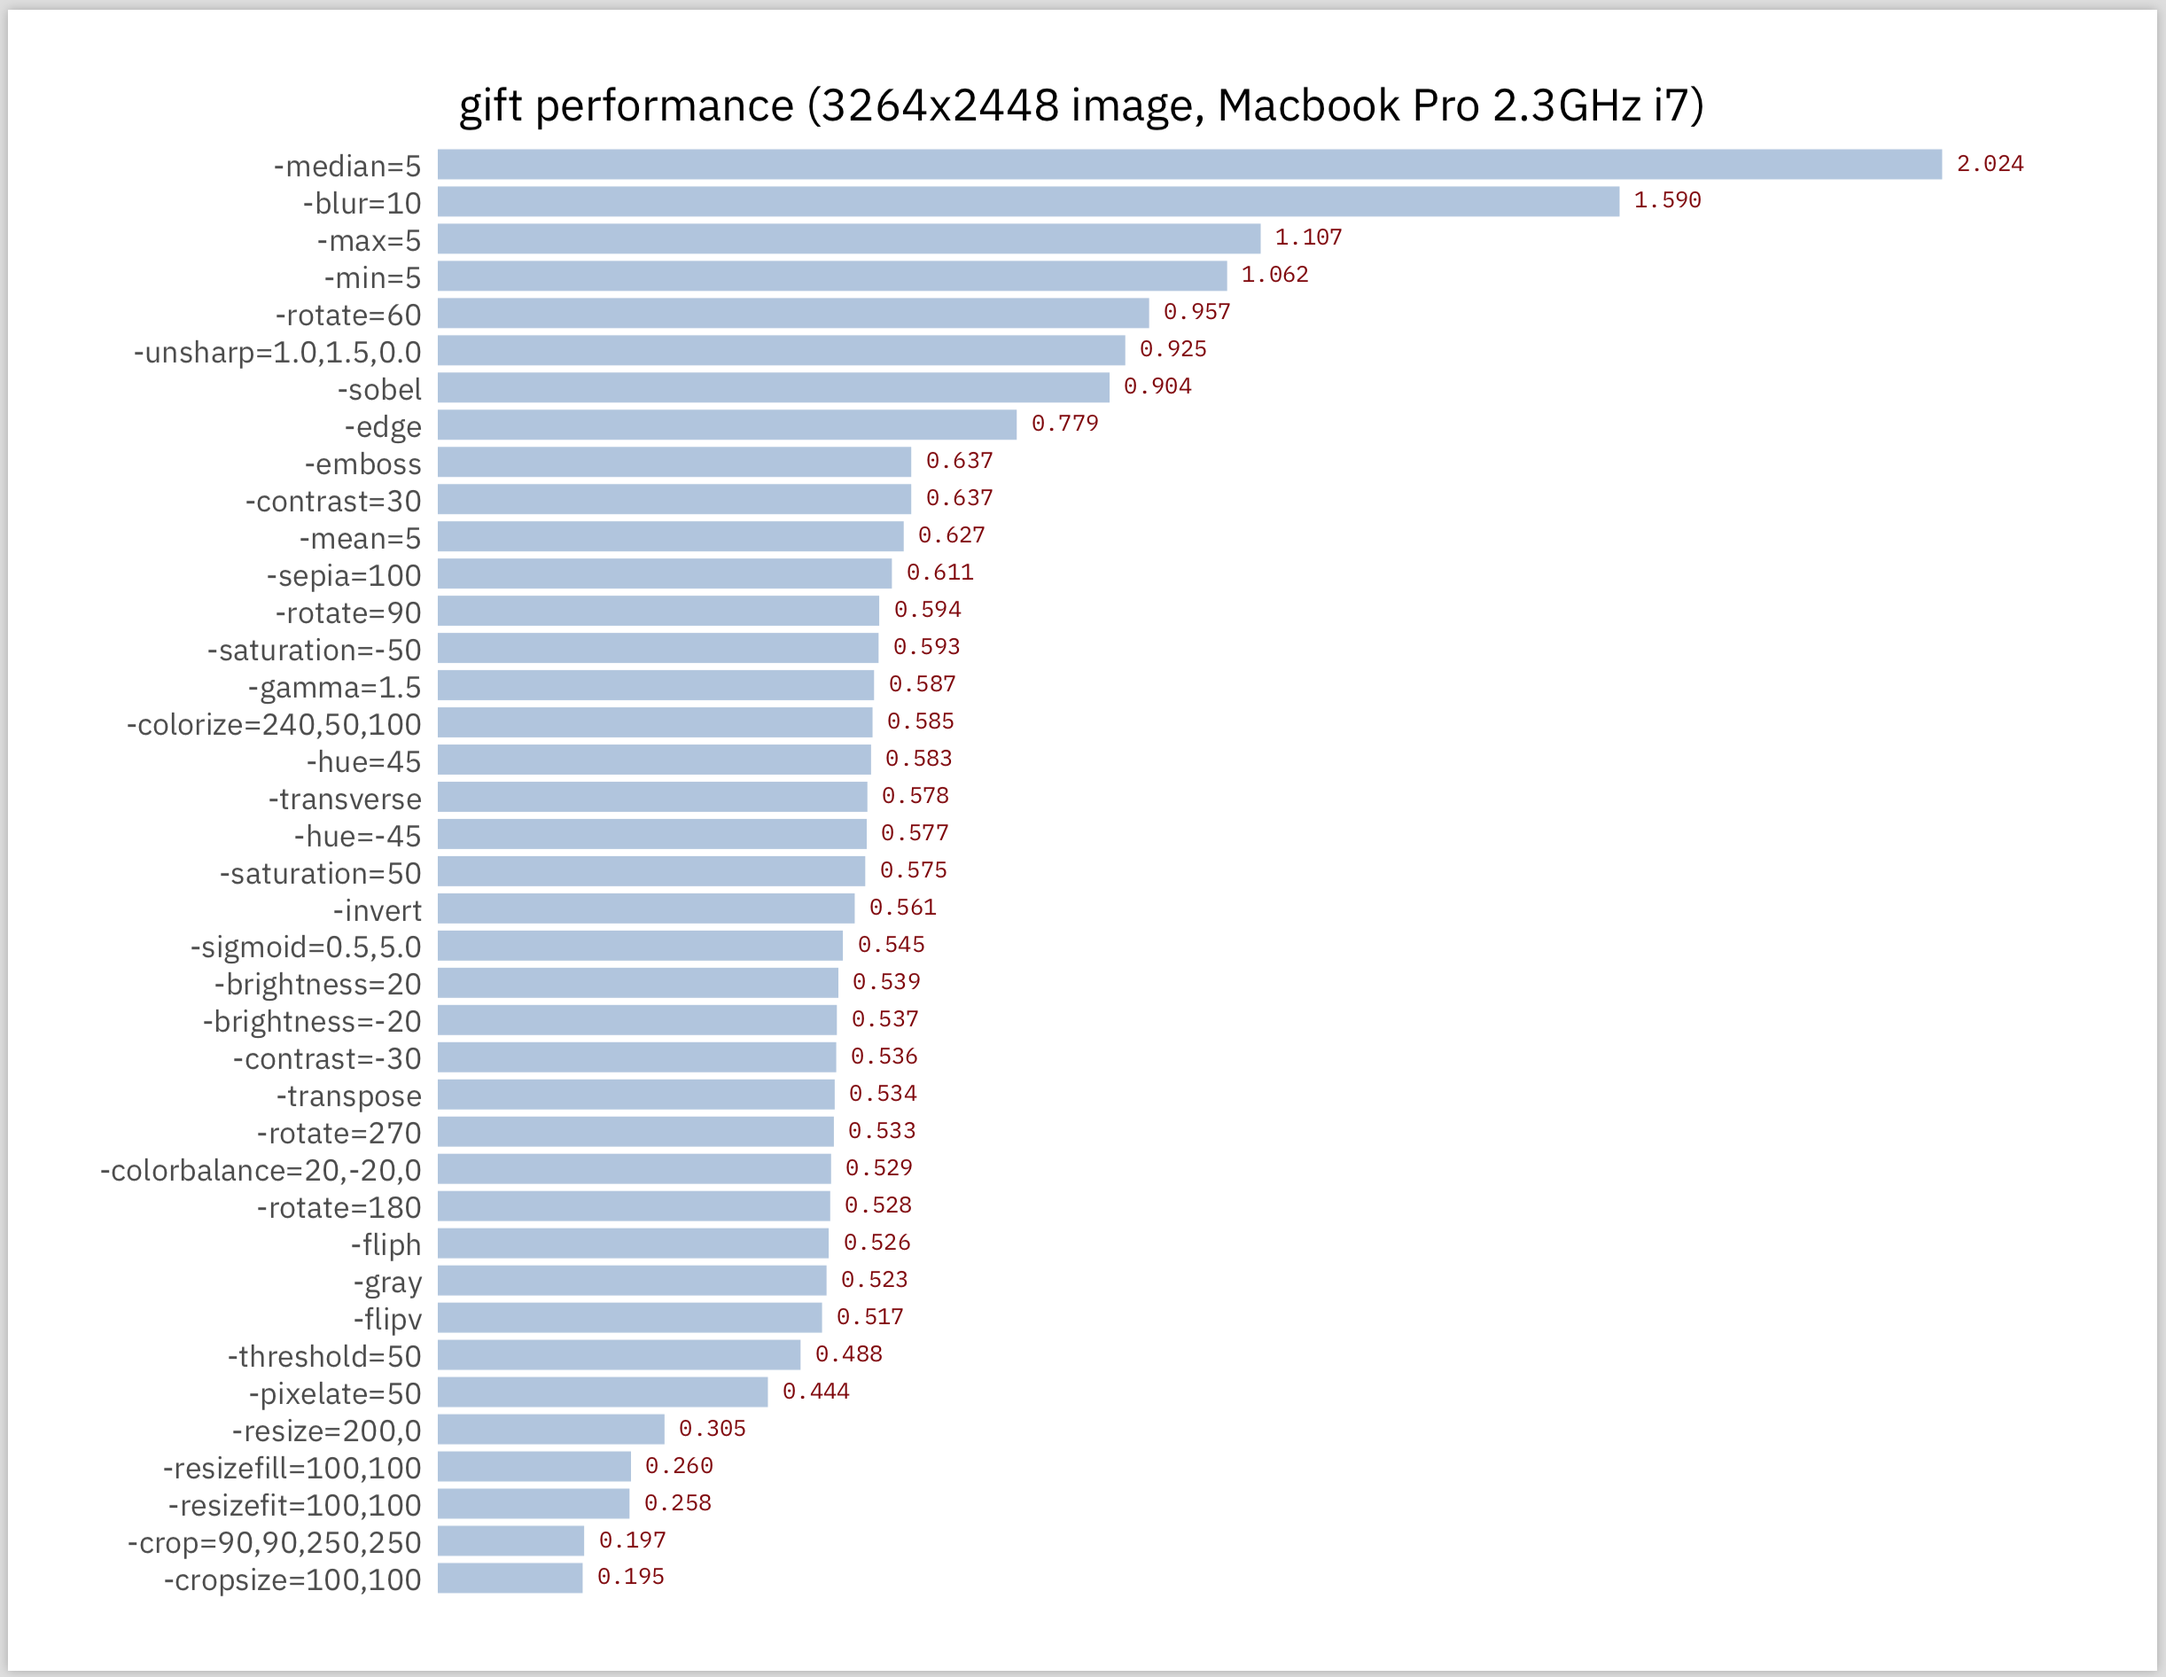
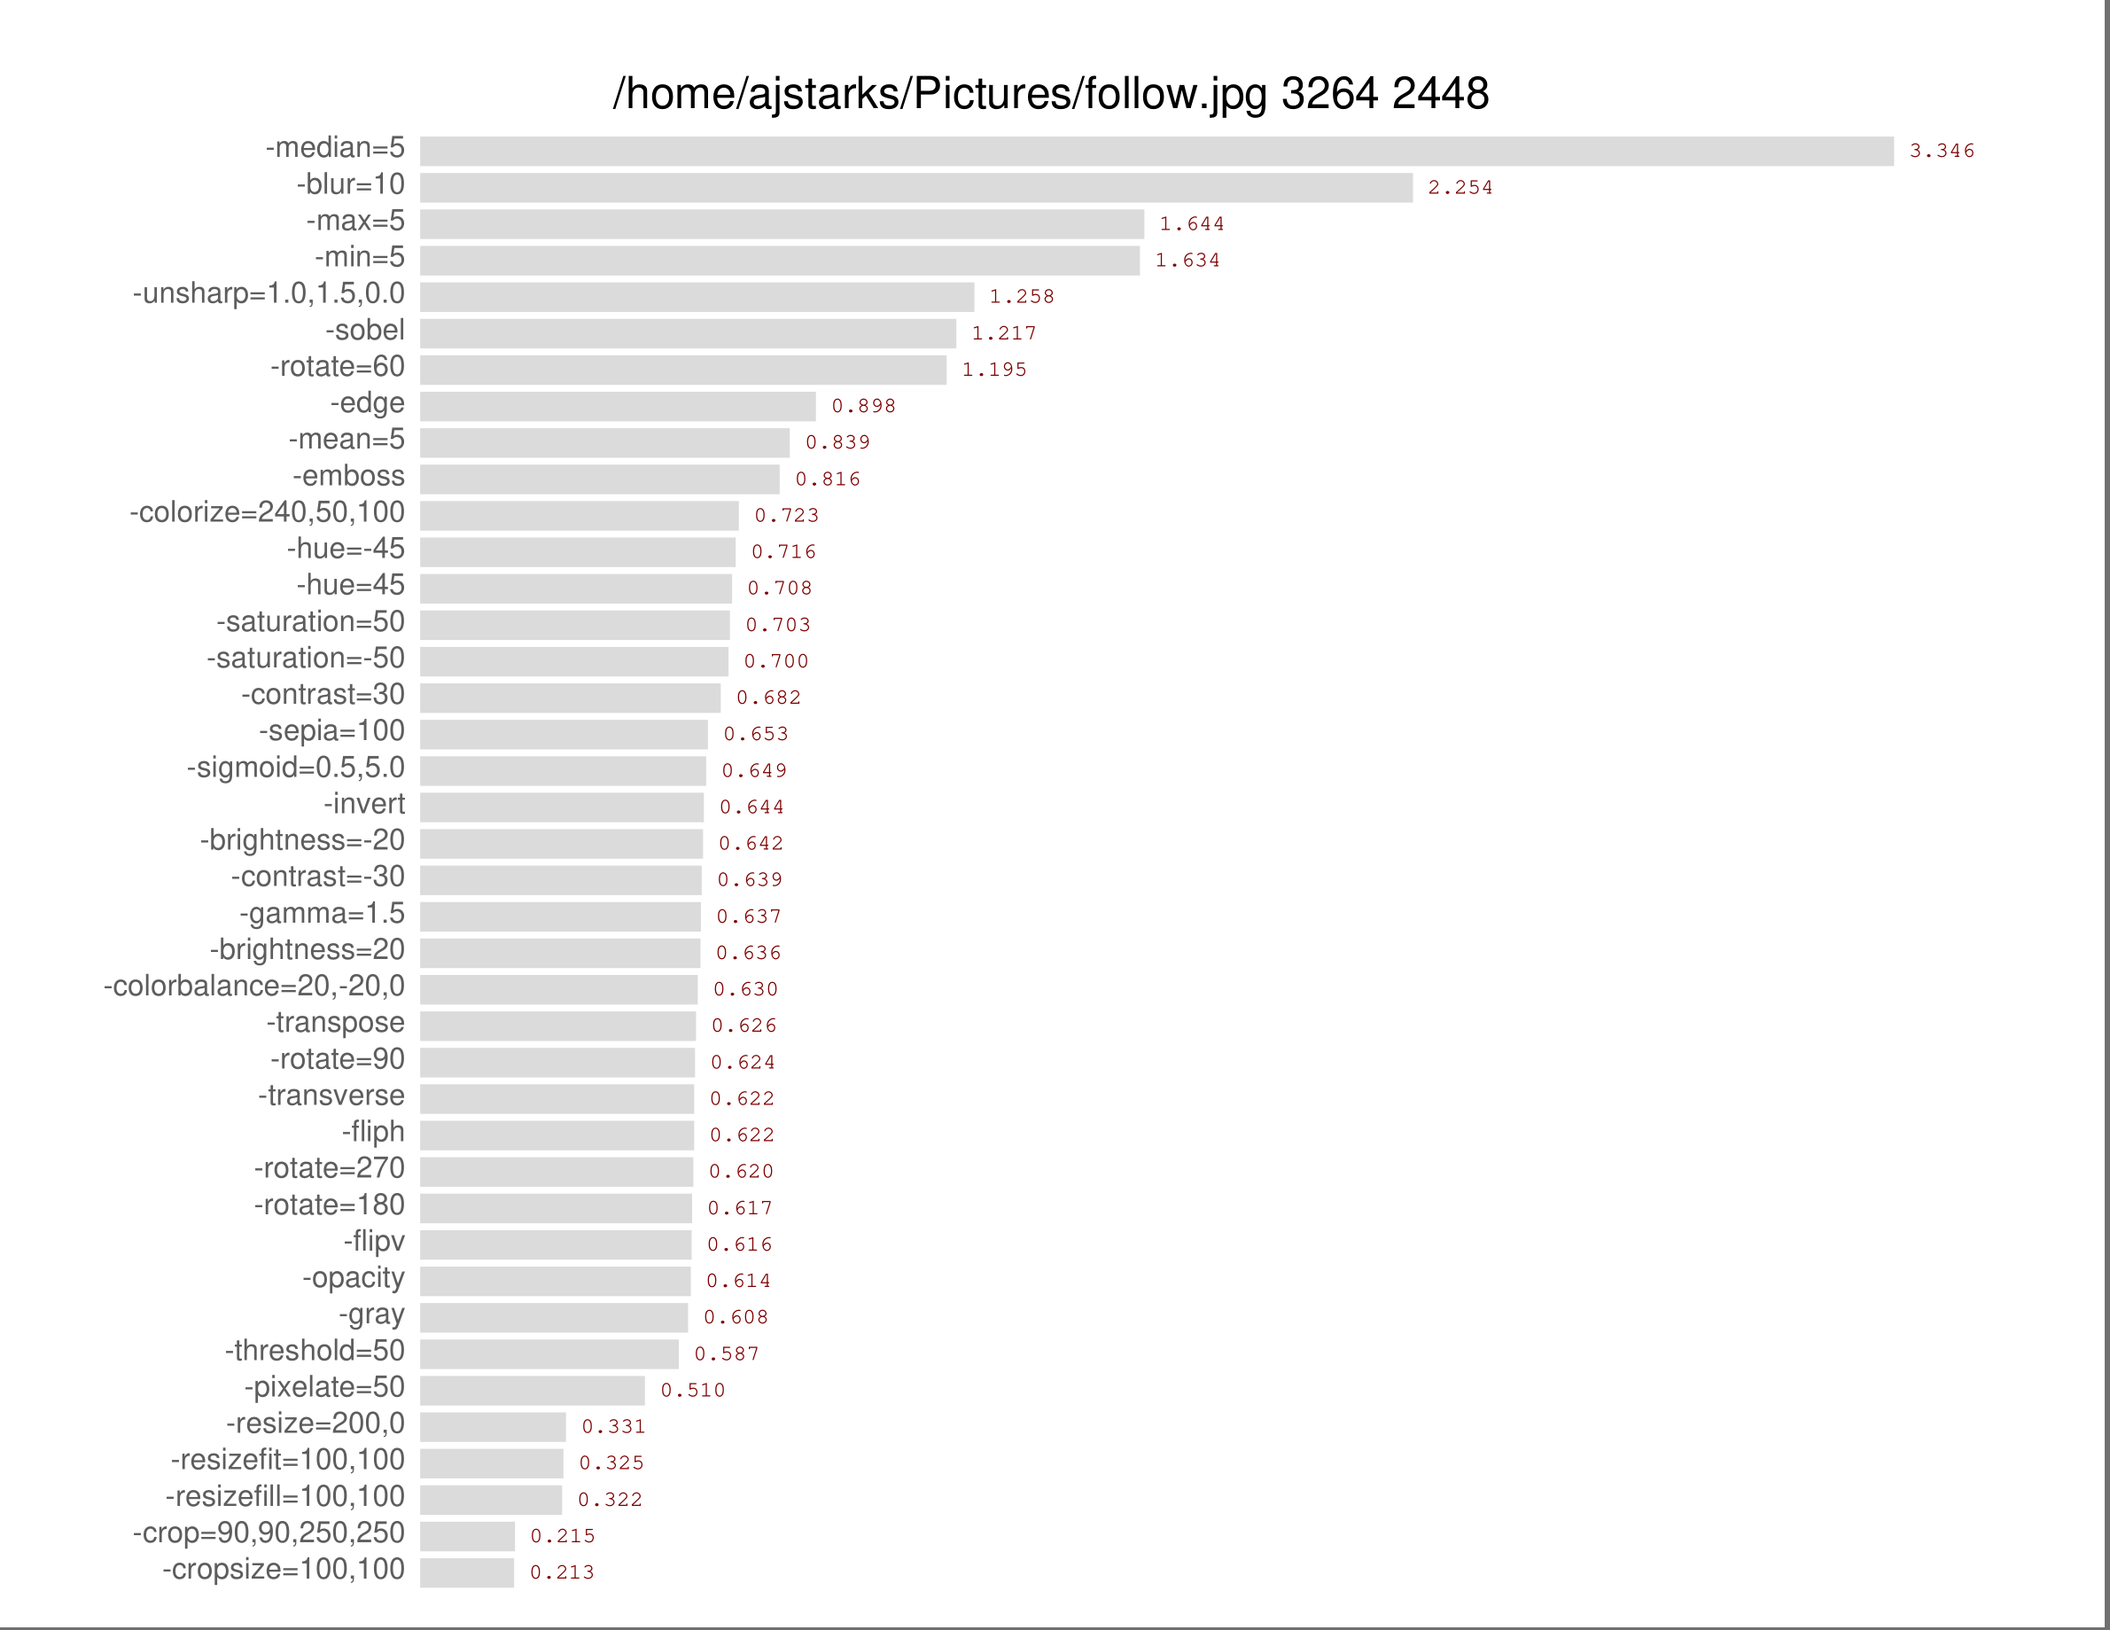
add opacity

Changed region(s): [[0.0, 0.0, 1.0, 1.0]]

diff --git a/gift.go b/gift.go
@@ -15,10 +15,10 @@ import (
 )
 
 var (
-	blurvalue, brvalue, contvalue, hvalue, satvalue, gammavalue, sepiavalue, threshvalue float64
-	gray, neg, xpose, xverse, fliph, flipv, emboss, edge, sobel                          bool
-	res, resfit, resfill, cropspec, cropsize, sigspec, unsharp, colorize, colorbal       string
-	rotvalue, minvalue, maxvalue, meanvalue, medvalue, pixelatevalue                     int
+	blurvalue, brvalue, contvalue, hvalue, satvalue, gammavalue, sepiavalue, threshvalue, opacityvalue float64
+	gray, neg, xpose, xverse, fliph, flipv, emboss, edge, sobel                                        bool
+	res, resfit, resfill, cropspec, cropsize, sigspec, unsharp, colorize, colorbal                     string
+	rotvalue, minvalue, maxvalue, meanvalue, medvalue, pixelatevalue                                   int
 )
 
 func main() {
@@ -29,6 +29,7 @@ func main() {
 	flag.Float64Var(&satvalue, "saturation", -200, "saturation value (-100, 500)")
 	flag.Float64Var(&gammavalue, "gamma", 0, "gamma value")
 	flag.Float64Var(&sepiavalue, "sepia", -1, "sepia percentage (0-100)")
+	flag.Float64Var(&opacityvalue, "opacity", -1, "opacity percentage (0-100)")
 	flag.Float64Var(&threshvalue, "threshold", -1, "color threshold percentage (0-100)")
 	flag.IntVar(&rotvalue, "rotate", 0, "rotate specified degrees counter-clockwise")
 	flag.IntVar(&maxvalue, "max", 0, "local maximum (kernel size)")
@@ -85,6 +86,13 @@ func main() {
 	// brightness
 	if brvalue >= -100 && brvalue <= 100 {
 		g.Add(gift.Brightness(float32(brvalue)))
+	}
+
+	// opacity
+	if opacityvalue >= 0 && opacityvalue <= 100 {
+		g.Add(gift.ColorFunc(func(r0, g0, b0, a0 float32) (r, g, b, a float32) {
+			return r0, g0, b0, float32(opacityvalue) / 100
+		}))
 	}
 
 	// hue

diff --git a/README.md b/README.md
@@ -60,6 +60,8 @@ Here are the command flags:
     	local median filter (kernel size)
   -min int
     	local minimum (kernel size)
+  -opacity float
+        opacity (alpha) (0-100)
   -pixelate int
     	pixelate
   -resize string
